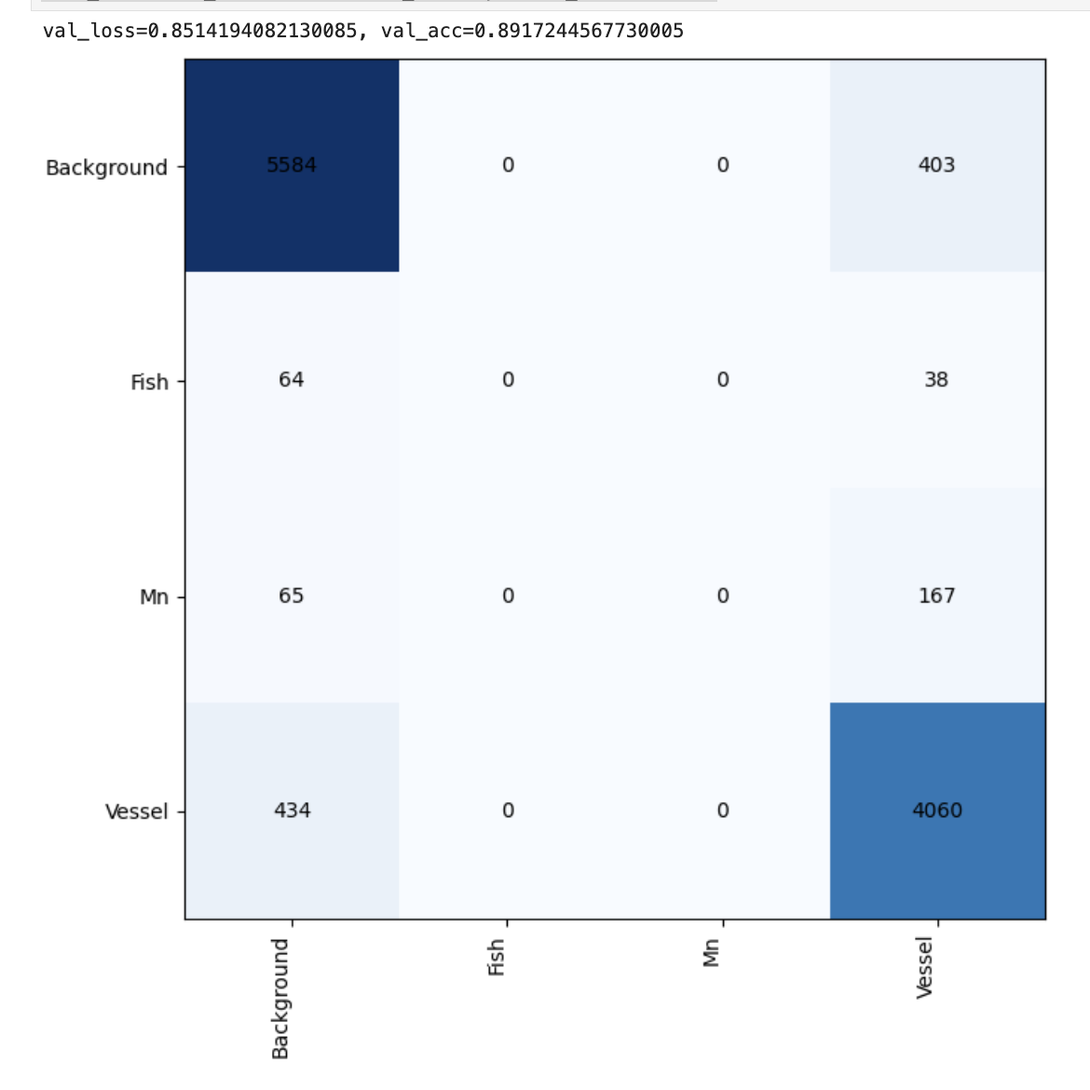
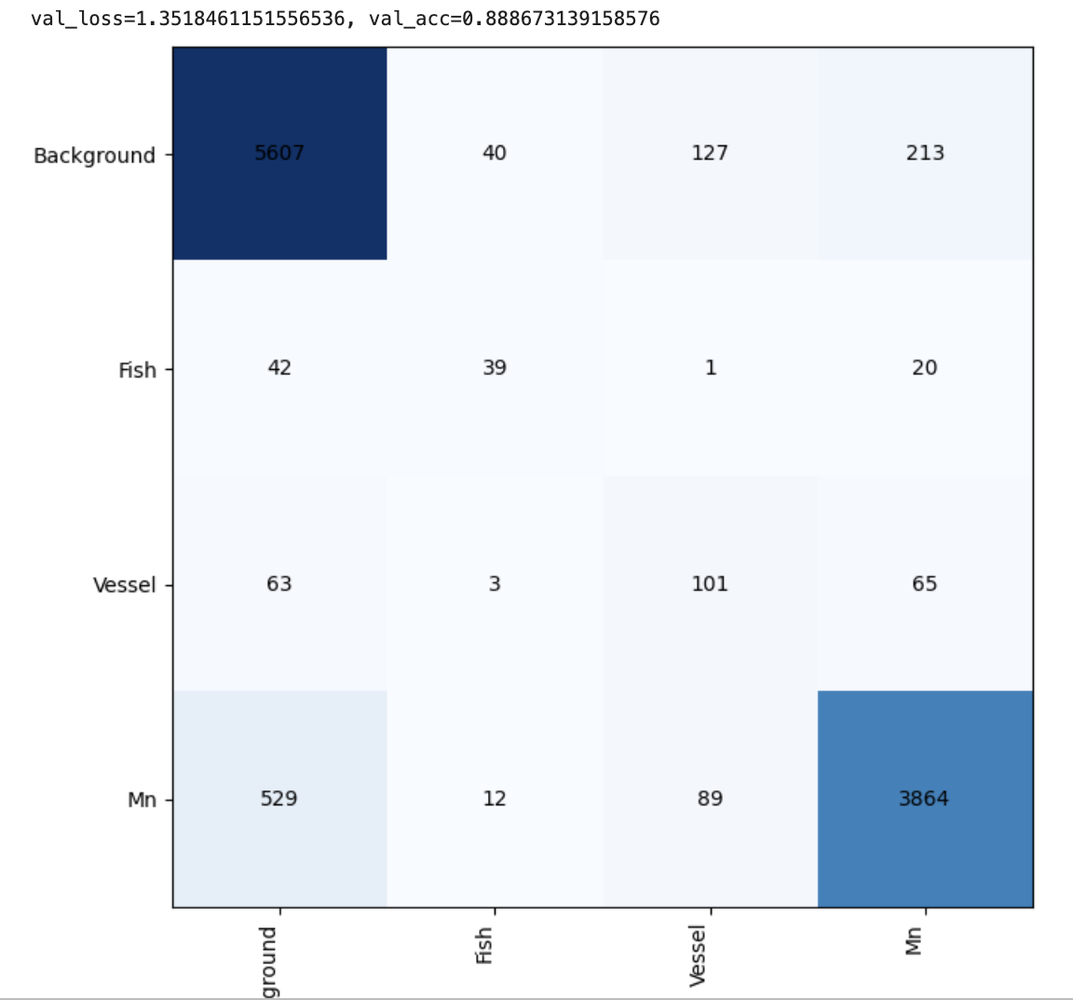
Update index.html

diff --git a/index.html b/index.html
@@ -1,96 +1,85 @@
+<!doctype html>
+<html lang="en">
+<head>
+<title>ono Acoustic Whale Detector</title>
+<meta property="og:title" content="Your Project Name" />
+<meta name="twitter:title" content="Your Project Name" />
+<meta name="description" content="Your project about your cool topic described right here." />
+<meta property="og:description" content="Your project about your cool topic described right here." />
+<meta name="twitter:description" content="Your project about your cool topic described right here." />
+<meta property="og:type" content="website" />
+<meta name="twitter:card" content="summary" /> 
+<meta name="viewport" content="width=device-width,initial-scale=1" />
+<!-- bootstrap for mobile-friendly layout -->
+<link rel="stylesheet" href="https://cdn.jsdelivr.net/npm/bootstrap@4.6.2/dist/css/bootstrap.min.css" integrity="sha384-xOolHFLEh07PJGoPkLv1IbcEPTNtaed2xpHsD9ESMhqIYd0nLMwNLD69Npy4HI+N" crossorigin="anonymous">
+<script src="https://cdn.jsdelivr.net/npm/jquery@3.5.1/dist/jquery.slim.min.js" integrity="sha384-DfXdz2htPH0lsSSs5nCTpuj/zy4C+OGpamoFVy38MVBnE+IbbVYUew+OrCXaRkfj" crossorigin="anonymous"></script>
+<script src="https://cdn.jsdelivr.net/npm/bootstrap@4.6.2/dist/js/bootstrap.bundle.min.js" integrity="sha384-Fy6S3B9q64WdZWQUiU+q4/2Lc9npb8tCaSX9FK7E8HnRr0Jz8D6OP9dO5Vg3Q9ct" crossorigin="anonymous"></script>
+<link href="https://fonts.googleapis.com/css?family=Open+Sans:300,400,700" rel="stylesheet">
+<link href="style.css" rel="stylesheet">
+
+
+
 <h1>Sono Acoustic Whale Detector</h1>
 
 <h2>1) Introduction</h2>
 
 <p>
-    Previous work in this field, including the paper we have based our work on, were mostly related to detecting and classifying biologic sound signatures
-     from underwater acoustic microphones. The goal of our work is to try and classify whale calls, vessels, fish and background noise. Training to detect
-      vessels proves to be a difficult problem with the given dataset given the large imbalance between the relatively small number of vessels and fish,
-       and the large proportion of whales and background noise. The initial paper also used a slightly modified version of the ResNet-50 model. We theorized
-        that ResNet-50 was unnecessarily large for the classification task, so we experimented with smaller models to compare performance between them.
+Previous work in this field, including the paper we have based our work on, were mostly related to detecting and classifying biologic sound signatures from underwater acoustic microphones. The goal of our work is to try and classify whale calls, vessels, fish and background noise. Training to detect vessels proves to be a difficult problem with the given dataset given the large imbalance between the relatively small number of vessels and fish, and the large proportion of whales and background noise. The initial paper also used a slightly modified version of the ResNet-50 model. We theorized that ResNet-50 was unnecessarily large for the classification task, so we experimented with smaller models to compare performance between them.
 </p>
 
 <h2>2) Paper Review</h2>
 
 <p>
-    Our work builds off of A Convolutional Neural Network for Automated Detection of Humpaback Whale Song in a Diverse, Long-Term Passive Acoustic Dataset [1]. 
-    The dataset used in this paper and our work is gathered by NOAA in the Pacific Islands Passive Acoustic Network (PIPAN) which takes advantage of 
-    High-frequency Acoustic Recording Package (HARP) hydrophones, specially designed for detecting whales [2, 3]. The PIPAN network of hydrophones uses a sampling 
-    rate of 10kHz and saves the data in a special audio format, called xwav which contains additional metadata. The data was transformed via an
-     “acoustic front end" to a spectrogram via a Short-Time Fourier Transform and was normalized using Per Channel Energy Normalization (PCEN) [5]. 
-     The hyper parameters of PCEN were learned by the model during training. The resulting spectrogram had a size of 96 frequency bins x 128 time bins.
-      This was then passed through a slightly modified ResNet-50 model. A ResNet-50 model was chosen due to its proven performance in classifying audio data [6, 7].
-
-      
-The model is a binary classifier, outputting positive for a whale, or negative for no whale. The performance of the model was determined across a 75s 
-chunk of audio data. The spectrogram the model takes as input is smaller than 75s. Therefore, the model has multiple attempts to be able to detect, or 
-not detect, a whale. Across these 75s segments, the paper reports the model was able to achieve an average precision of 0.97 and AUC-ROC of 0.992. 
-We feel that determining model performance on 75s audio segments is useful operationally for NOAA but misleading for true model performance. This 
-is why we report accuracy across each spectrogram as opposed to multiple at a time. The model also only detected whale noises, and ignored the other 
-labels that appeared in the dataset. Being able to detect vessels as well as whales posed an interesting challenge that we chose to explore. Additionally, 
-given the general rarity and lack of complexity in a spectrogram in comparison to a traditional image that ResNet-50 was initially designed for. We feel 
-that a smaller network could achieve similar results while greatly reducing power consumption and compute complexity allowing for off site deployment of 
-these models.
-
+Our work builds off of A Convolutional Neural Network for Automated Detection of Humpaback Whale Song in a Diverse, Long-Term Passive Acoustic Dataset [1]. The dataset used in this paper and our work is gathered by NOAA in the Pacific Islands Passive Acoustic Network (PIPAN) which takes advantage of High-frequency Acoustic Recording Package (HARP) hydrophones, specially designed for detecting whales [2, 3]. The PIPAN network of hydrophones uses a sampling rate of 10kHz and saves the data in a special audio format, called xwav which contains additional metadata. The data was transformed via an â€œacoustic front end" to a spectrogram via a Short-Time Fourier Transform and was normalized using Per Channel Energy Normalization (PCEN) [5]. The hyper parameters of PCEN were learned by the model during training. The resulting spectrogram had a size of 96 frequency bins x 128 time bins. This was then passed through a slightly modified ResNet-50 model. A ResNet-50 model was chosen due to its proven performance in classifying audio data [6, 7]. 
+</p>
+<p>
+The model is a binary classifier, outputting positive for a whale, or negative for no whale. The performance of the model was determined across a 75s chunk of audio data. The spectrogram the model takes as input is smaller than 75s. Therefore, the model has multiple attempts to be able to detect, or not detect, a whale. Across these 75s segments, the paper reports the model was able to achieve an average precision of 0.97 and AUC-ROC of 0.992. We feel that determining model performance on 75s audio segments is useful operationally for NOAA but misleading for true model performance. This is why we report accuracy across each spectrogram as opposed to multiple at a time. The model also only detected whale noises, and ignored the other labels that appeared in the dataset. Being able to detect vessels as well as whales posed an interesting challenge that we chose to explore. Additionally, given the general rarity and lack of complexity in a spectrogram in comparison to a traditional image that ResNet-50 was initially designed for. We feel that a smaller network could achieve similar results while greatly reducing power consumption and compute complexity allowing for off site deployment of these models.
 </p>
 
 <h2>3) Method</h2>
 
 <p>
-    We processed around 1,000 hours of audio data into spectrograms, totalling 4-6TB of raw audio. Given computation limitations,
-     we were forced to use our own implementation of the short-time Fourier transform (STFT) as opposed to the original plan of re-using
-      the original paper’s acoustic front end. This ended up being beneficial as we are now able to control the entire data pipeline from
-       audio to classification. We took advantage of the additional metadata contained in the XWAV file format and only read and processed 225s chunks
-        of data as opposed to the entire 24 hour XWAV file. We then sliced the resulting spectrogram, which was longer than 256 time bins down to
-         center the labeled classification in the time axis. This was identified early on as a potential issue with the training data. This method
-          always places a whale call in a very similar y position, and therefore, would potentially only learn to detect whale songs that occur in the
-           middle of the spectrogram as opposed to whale songs that occur on the edges of spectrograms.
+We processed around 1,000 hours of audio data into spectrograms, totalling 4-6TB of raw audio. Given computation limitations, we were forced to use our own implementation of the short-time Fourier transform (STFT) as opposed to the original plan of re-using the original paperâ€™s acoustic front end. This ended up being beneficial as we are now able to control the entire data pipeline from audio to classification. We took advantage of the additional metadata contained in the XWAV file format and only read and processed 225s chunks of data as opposed to the entire 24 hour XWAV file. We then sliced the resulting spectrogram, which was longer than 256 time bins down to center the labeled classification in the time axis. This was identified early on as a potential issue with the training data. This method always places a whale call in a very similar y position, and therefore, would potentially only learn to detect whale songs that occur in the middle of the spectrogram as opposed to whale songs that occur on the edges of spectrograms.
 </p>
 <p>
-           We converted the audio files into spectrogram images using a similar method to the original paper. We passed the data through the STFT and PCEN layer. 
-Due to computational, storage, and time limitations, our STFT and PCEN used smaller window sizes than the original paper. Due to similar constraints, 
-the PCEN hyper parameters were unable to be trained by the model and instead were tuned manually with sample spectrograms. The PCEN algorithm used was 
-written in PyTorch to allow for better future integration with our current model [5]. The hyperparameters we decided on were: s=0.008, alpha=0.8, 
-delta=200, r=0.05, length of fast fourier transform window=4,096, number of mel frequency bins=256, hop length=300, hann window, and a minimum and maximum 
-frequency of 10Hz and 4kHz respectively. The PCEN specific hyperparameters were influenced heavily by the PCEN paper [8]. These hyperparameters were 
-found to be able to both emphasize whale calls and vessel noise.
+We converted the audio files into spectrogram images using a similar method to the original paper. We passed the data through the STFT and PCEN layer. Due to computational, storage, and time limitations, our STFT and PCEN used smaller window sizes than the original paper. Due to similar constraints, the PCEN hyper parameters were unable to be trained by the model and instead were tuned manually with sample spectrograms. The PCEN algorithm used was written in PyTorch to allow for better future integration with our current model [5]. The hyperparameters we decided on were: s=0.008, alpha=0.8, delta=200, r=0.05, length of fast fourier transform window=4,096, number of mel frequency bins=256, hop length=300, hann window function, and a minimum and maximum frequency of 10Hz and 4kHz respectively. The PCEN specific hyperparameters were influenced heavily by the PCEN paper [8]. These hyperparameters were found to be able to both emphasize whale calls and vessel noise.
 </p>
 <p>
-The spectrograms that are output are much larger and contain more information to learn than the original paper’s spectrogram of 128x96 pixels. We believe 
-that the intricacies of the different classes are separated by very small differences in pixels. Therefore, we believe the detail in the image will lead to 
-enough of a benefit in accuracy that it would outweigh the drawbacks of decreased data loading speed. These images (256 x 256 pixels), could then be fed into 
-a convolutional neural network to then be classified into our target classes: Whale, Vessel, Fish, and Background (extended from the above paper which just 
-classifies between Whale and Background). While the original paper used 64 x 64 pixel images into a resnet-50 architecture, we implemented two distinctly 
-smaller convolutional networks: a basic convolutional network without residual connections, and resnet-18. Our intention was to perform the classification task 
-using smaller networks to see if we could get similar or better results. 
+The spectrograms that are output are much larger and contain more information to learn than the original paper’s spectrogram of 128x96 pixels. We believe that the intricacies of the different classes are separated by very small differences in pixels. Therefore, we believe the detail in the image will lead to enough of a benefit in accuracy that it would outweigh the drawbacks of decreased data loading speed. These images (256 x 256 pixels), could then be fed into a convolutional neural network to then be classified into our target classes: Whale, Vessel, Fish, and Background (extended from the above paper which just classifies between Whale and not Whale). While the original paper used 64 x 64 pixel images into a resnet-50 architecture, we implemented two distinctly smaller convolutional networks: a basic convolutional network without residual connections, and resnet-18. Our intention was to perform the classification task using smaller networks to see if we could get similar or better results.
 </p>
 <p>
-The models were trained with support provided by Research Computer at Northeastern University [4]. The models were trained with 1 P100 GPU with a 28 core CPU with 
-access provided through the Undergraduate Courses Cluster.
+The models were trained with support provided by Research Computer at Northeastern University [4]. The models were trained with 1 P100 GPU with a 28 core CPU with access provided through the Undergraduate Courses Cluster.
 </p>
 <p>
-Our developed convolutional network used 19 layers (four groups of conv2d -> dropout -> ReLU -> batchnorm, followed by Avgpool, linear, and softmax layers)
- and 9152 parameters total, while the ResNet-18 architecture used 11.17M parameters.We weighted the cross entropy loss function inversely proportional to
-  the distribution of image classes in the training set. The class distribution was: 55.8% background, 0.8% fish, 2.1% vessel, and 41.3% whale. Thus, vessels
-   and fish, which had significantly less images than whale and background in the training set, were weighted significantly more by the loss function. This solution
-    is equivalent to balancing the distribution of images in each class, and allows us to find better classification barriers between the common and uncommon classes.
-</p>
 
+Our developed convolutional network used 19 layers (four groups of conv2d -> dropout -> ReLU -> batchnorm, followed by Avgpool, linear, and softmax layers) and 9152 parameters total. Link to implementation here
+We slightly modified a base ResNet-18 model. We changed the input to be able to take grayscale images. And modified the output to output 4 classes. Link/implementation here
+We tested a basic bottle-neck architecture using the pytorch implementation. These have been shown to be able to allow models to have more layers improving accuracy. Link to implementation here
+We finally tested a very basic Wide ResNet architecture. These have been shown to improve accuracy on shallower networks. Link to implementation here
+</p>
+<p>
+We utilized the cross entropy loss function for our model. To address our extreme class imbalance problem, we modified the weight parameter in the cross entropy loss function. By setting the weights to be inversely proportional to the distribution of image classes in the training set, we can penalize mistakes on the less common classes more. The class distribution was: 55.8% background, 0.8% fish, 2.1% vessel, and 41.3% whale. Thus, vessels and fish, which had significantly less images than whale and background in the training set, were weighted significantly more by the loss function. This solution is equivalent to balancing the distribution of images in each class, and allows us to find better classification barriers between the common and uncommon classes.
 
+</p>
+</p>
+We also experimented with the label smoothing parameter in the cross entropy loss function. Label smoothing is a technique meant to prevent overconfident predictions from the network by modifying the ground truth target labels. Specifically, it adds a uniform distribution (determined by smoothing parameter alpha) with the one hot target vector to give some probability to the other classes for the target. Our motivation for using this revolves around our concerns of labeling issues in our dataset. While we have no specific evidence to back this up, after manually searching through the spectrograms we have seen potential images that seem to be mislabeled. There are two potential reasons we believe to be the cause of this. The first is human labeling mistakes. There were hundreds of hours of audio data labeled, there is bound to be several classes mislabeled. The other cause was the non-majority classes were not labeled with as much accuracy in the time range as the whale class. Whales were labeled with around one second of precision while the vessel and fish class were labeled within a range of 75 seconds. The entire 75 second block of audio was considered to contain the target noise, even if the signature only started half way through the 75 second block.
+</p>
 </p>
 <h2>4) Experimental Findings</h2>
 <p>
-We found that our convolutional network was able to achieve an 87 % train accuracy and an 88 % validation accuracy. Our final version of the model with the highest
- validation accuracy only made predictions on the two largest classes: background and fish. While adjusting the hyperparameters of the model (learning rate, weight
-  decay, batch size, etc.), we were only able to get some predictions on the two minority classes occassionally, but most times predictions were only made on the two
-   majority classes. This best performace came with a learning rate of 0.01, a weight decay of 0.0001, and a batch size of 512. Our model does a pretty good job of 
-   discriminating between the two major classes: background and whale have precisions of .93 and .90 respectively.
+We found that the best accuracy our convolutional network was able to achieve was an 87 % train accuracy and an 88 % validation accuracy. Before we modified the weight and label smoothing parameters, we were able to achieve the same train and test accuracy. However, this preliminary model only made predictions on the majority Background and Whale classes, and made 0 predictions on the minority Fish and Vessel classes. This reflects a common problem while using accuracy as a metric for class imbalance problems: often a good accuracy can be achieved by predicting only on the majority class. However, this model does not practically serve our goals of classifying between all four classes.
 </p>
 <p>
-Our resnet-18 model was able to achieve an 89% train accuracy and an 89% validation accuracy. This model was able to make predictions on the two minority classes, but
-had slightly worse performance on the two majority classes than our convolutional model did. The resnet-18 model had pretty good discriminability amoung all classes (each
- class had more correct predictions than incorrect ones). This accuracy was also achieved after tuning of our various hyperparameters. Our convolutional network was able
-  to outperform resnet-18 in terms of precision for background and whale, while resnet-18 made slightly more misclassifications in both directions.
+After trying different sets of parameter combinations, the best configuration we found was an alpha= 0.1 label smoothing, and a modified inversely proportional weights (specifically we took the square root of inversely proportional weights, leading to weights of [1.0000, 8.1887, 5.2139, 1.1622] for Background, Fish, Vessel, and Whale, respectively. This model achieved almost the same train and test accuracy, but lead to a very different confusion matrix. Albeit the slightly worse prediction on the majority classes, this model did a good job on all four classes. Other parameters we found worked well included  a learning rate of 0.01, a weight decay of 0.0001, and a batch size of 512.
+</p>
+<p>
+Our smaller convolutional model does a pretty good job of discriminating between the two major classes: background and whale have precisions of .93 and .90 respectively.
+
+The ResNet-18 model was able to achieve 89.5% accuracy on the test set. It achieved a precision of 
+
+</p>
+<p>
+Our resnet-18 model was able to achieve an 89% train accuracy and an 89% validation accuracy. This model was able to make predictions on the two minority classes, but had slightly worse performance on the two majority classes than our convolutional model did. The resnet-18 model had pretty good discriminability among all classes (each class had more correct predictions than incorrect ones). This accuracy was also achieved after tuning of our various hyperparameters. Our convolutional network was able to outperform resnet-18 in terms of precision for background and whale, while resnet-18 made slightly more misclassifications in both directions.
 <p>ResNet-18 Confusion Matrix</p>
  <img src="static/resnet18_conf_mat.png" width="40%">
 <p>Simple Model with 9,152 parameters Confusion Matrix</p>
@@ -98,25 +87,22 @@ had slightly worse performance on the two majority classes than our convolutiona
 
 <h2>5) Conclusions</h2>
 <p>
-    We were able to achieve success in using two smaller architectures to solve the problem of underwater acoustic classification. The simple model with 9,152 parameters was able 
-    to distinguish between whales and not whales. The ResNet-18 model was able to distinguish between whale and background and was also able to perform better than random on
-    classifying fish and vessel despite a very large class imbalance.  The ability to classify whale calls with small networks such as the one we provided could allow for low-cost,
-    on-device whale call classification anywhere. Given the moderate success of distinguishing vessel and fish noise from whales and background, we believe there is significant potential
-    in exploring additional machine learning architectures to solve this problem. Architectures such as a deeper ResNet, such as ResNet-34 or ResNet-50 could be interesting in exploring
-    additional classification classification power. We feel though that the biggest weakness in this experiment was the lack of data for Vessel and Fish. Exploring new methods for 
-    handling class imbalanced data could lead to potentially large growths. Additionally, the use of a GAN to artificially create spectrograms is another way to create more training data
-    for the classifier.
+We were able to achieve success in using two smaller architectures to solve the problem of underwater acoustic classification. The simple model with 9,152 parameters was able to distinguish between whales and not whales. The ResNet-18 model was able to distinguish between whale and background and was also able to perform better than random on classifying fish and vessel despite a very large class imbalance. The ability to classify whale calls with small networks such as the one we provided could allow for low-cost, on-device whale call classification anywhere. Given the moderate success of distinguishing vessel and fish noise from whales and background, we believe there is significant potential in exploring additional machine learning architectures to solve this problem. Architectures such as a deeper ResNet, such as ResNet-34 or ResNet-50 could be interesting in exploring additional classification classification power. We feel though that the biggest weakness in this experiment was the lack of data for Vessel and Fish. Exploring new methods for handling class imbalanced data could lead to potentially large growths. Additionally, the use of a GAN to artificially create spectrograms is another way to create more training data for the classifier.
 </p>
 <h2>Bibliography</h2>
 <ol>
+
     <li>Allen AN, Harvey M, Harrell L, Jansen A, Merkens KP, Wall CC, Cattiau J and Oleson EM (2021) A Convolutional Neural Network for Automated Detection of Humpback Whale Song in a Diverse, Long-Term Passive Acoustic Dataset. Front. Mar. Sci. 8:607321. doi: 10.3389/fmars.2021.607321</li>
-    <li>NOAA Pacific Islands Fisheries Science Center. 2021. Pacific Islands Passive Acoustic Network (PIPAN) 10kHz Data. NOAA National Centers for Environmental Information. https://doi.org/10.25921/Z787-9Y54</li>
-    <li>S. M. Wiggins and J. A. Hildebrand, "High-frequency Acoustic Recording Package (HARP) for broad-band, long-term marine mammal monitoring," 2007 Symposium on Underwater Technology and Workshop on Scientific Use of Submarine Cables and Related Technologies, Tokyo, Japan, 2007, pp. 551-557, doi: 10.1109/UT.2007.370760.</li>
-    <li>Research Computing, Northeastern University, https://rc.northeastern.edu/.</li>
-    <li>Y. Wang, P. Getreuer, T. Hughes, R. F. Lyon and R. A. Saurous, "Trainable frontend for robust and far-field keyword spotting," 2017 IEEE International Conference on Acoustics, Speech and Signal Processing (ICASSP), New Orleans, LA, USA, 2017, pp. 5670-5674, doi: 10.1109/ICASSP.2017.7953242.</li>
     <li>He, K., Zhang, X., Ren, S., & Sun, J. (2016). Deep residual learning for image recognition. In Proceedings of the IEEE conference on computer vision and pattern recognition (pp. 770-778).</li>
-    <li>Hershey, S., Chaudhuri, S., Ellis, D. P. W., Gemmeke, J. F., Jansen, A., Moore, R. C., et al. (2017). “CNN architectures for large-scale audio classification,” in Proceedings of the 2017 IEEE International Conference on Acoustics, Speech and Signal Processing (ICASSP), (New Orleans, LA), 131–135. doi: 10.1109/ICASSP.2017.7952132</li>
+    <li>Hershey, S., Chaudhuri, S., Ellis, D. P. W., Gemmeke, J. F., Jansen, A., Moore, R. C., et al. (2017). â€œCNN architectures for large-scale audio classification,â€ in Proceedings of the 2017 IEEE International Conference on Acoustics, Speech and Signal Processing (ICASSP), (New Orleans, LA), 131â€“135. doi: 10.1109/ICASSP.2017.7952132</li>
+    <li>Johnson, J.M., Khoshgoftaar, T.M. Survey on deep learning with class imbalance. J Big Data 6, 27 (2019). https://doi.org/10.1186/s40537-019-0192-5</li>
+    <li>NOAA Pacific Islands Fisheries Science Center. 2021. Pacific Islands Passive Acoustic Network (PIPAN) 10kHz Data. NOAA National Centers for Environmental Information. https://doi.org/10.25921/Z787-9Y54</li>
+    <li>Research Computing, Northeastern University, https://rc.northeastern.edu/.</li>
+    <li>S. M. Wiggins and J. A. Hildebrand, "High-frequency Acoustic Recording Package (HARP) for broad-band, long-term marine mammal monitoring," 2007 Symposium on Underwater Technology and Workshop on Scientific Use of Submarine Cables and Related Technologies, Tokyo, Japan, 2007, pp. 551-557, doi: 10.1109/UT.2007.370760.</li>
+    <li>Szegedy, C., Vanhoucke, V., Ioffe, S., Shlens, J., & Wojna, Z. (2016). Rethinking the inception architecture for computer vision. In Proceedings of the IEEE conference on computer vision and pattern recognition (pp. 2818-2826).</li>
     <li>V. Lostanlen et al., "Per-Channel Energy Normalization: Why and How," in IEEE Signal Processing Letters, vol. 26, no. 1, pp. 39-43, Jan. 2019, doi: 10.1109/LSP.2018.2878620.</li>
+    <li>Y. Wang, P. Getreuer, T. Hughes, R. F. Lyon and R. A. Saurous, "Trainable frontend for robust and far-field keyword spotting," 2017 IEEE International Conference on Acoustics, Speech and Signal Processing (ICASSP), New Orleans, LA, USA, 2017, pp. 5670-5674, doi: 10.1109/ICASSP.2017.7953242.</li>
+
 </ol>
 <h3>Appendix</h3>
 <p>Example Spectrograms:</p>

diff --git a/static/style.css b/static/style.css
@@ -1,0 +1,69 @@
+body, td, th {
+  font-family: 'Open Sans', sans-serif;
+}
+h2 {
+  margin-top: 3ex;
+}
+/* Deep blues */
+.color-primary-0 { color: #233BF5 }
+.color-primary-1 { color: #3314DE }
+.color-primary-2 { color: #7717FA }
+.color-primary-3 { color: #1461DE }
+.color-primary-4 { color: #17A9FA }
+
+.nd-pageheader {
+  padding: 2rem 15px;
+  margin-bottom: 1.5rem;
+  color: white;
+  text-align: center;
+  background-color: #233BF5;
+}
+
+.nd-pageheader a, .nd-pageheader a.likelink {
+  color: #e4f1fe;
+}
+
+.nd-pagefooter {
+  color: white;
+  margin-top: 1.5rem;
+  padding: 1rem;
+  text-align: center;
+  background-color: #233BF5;
+}
+
+.nd-pagefooter a {
+  color: #e4f1fe;
+}
+
+.nd-pageheader .container {
+  position: relative
+}
+
+.nd-pageheader address {
+  font-weight: 300;
+}
+
+.nd-pageheader p, .nd-pageheader h1 {
+  margin-bottom: 0.75rem;
+  font-size: 2.25rem;
+  font-weight: 300;
+  line-height: 1.3;
+}
+
+.citation {
+  margin-top: 15px;
+  clear: both;
+}
+.citation:after {
+  content: '';
+  display: table;
+  clear: both;
+}
+.citation img {
+  float: left;
+  margin: 0 10px 10px 0;
+  width: 250px;
+}
+nobr.widenobr {
+  white-space: normal;
+}
